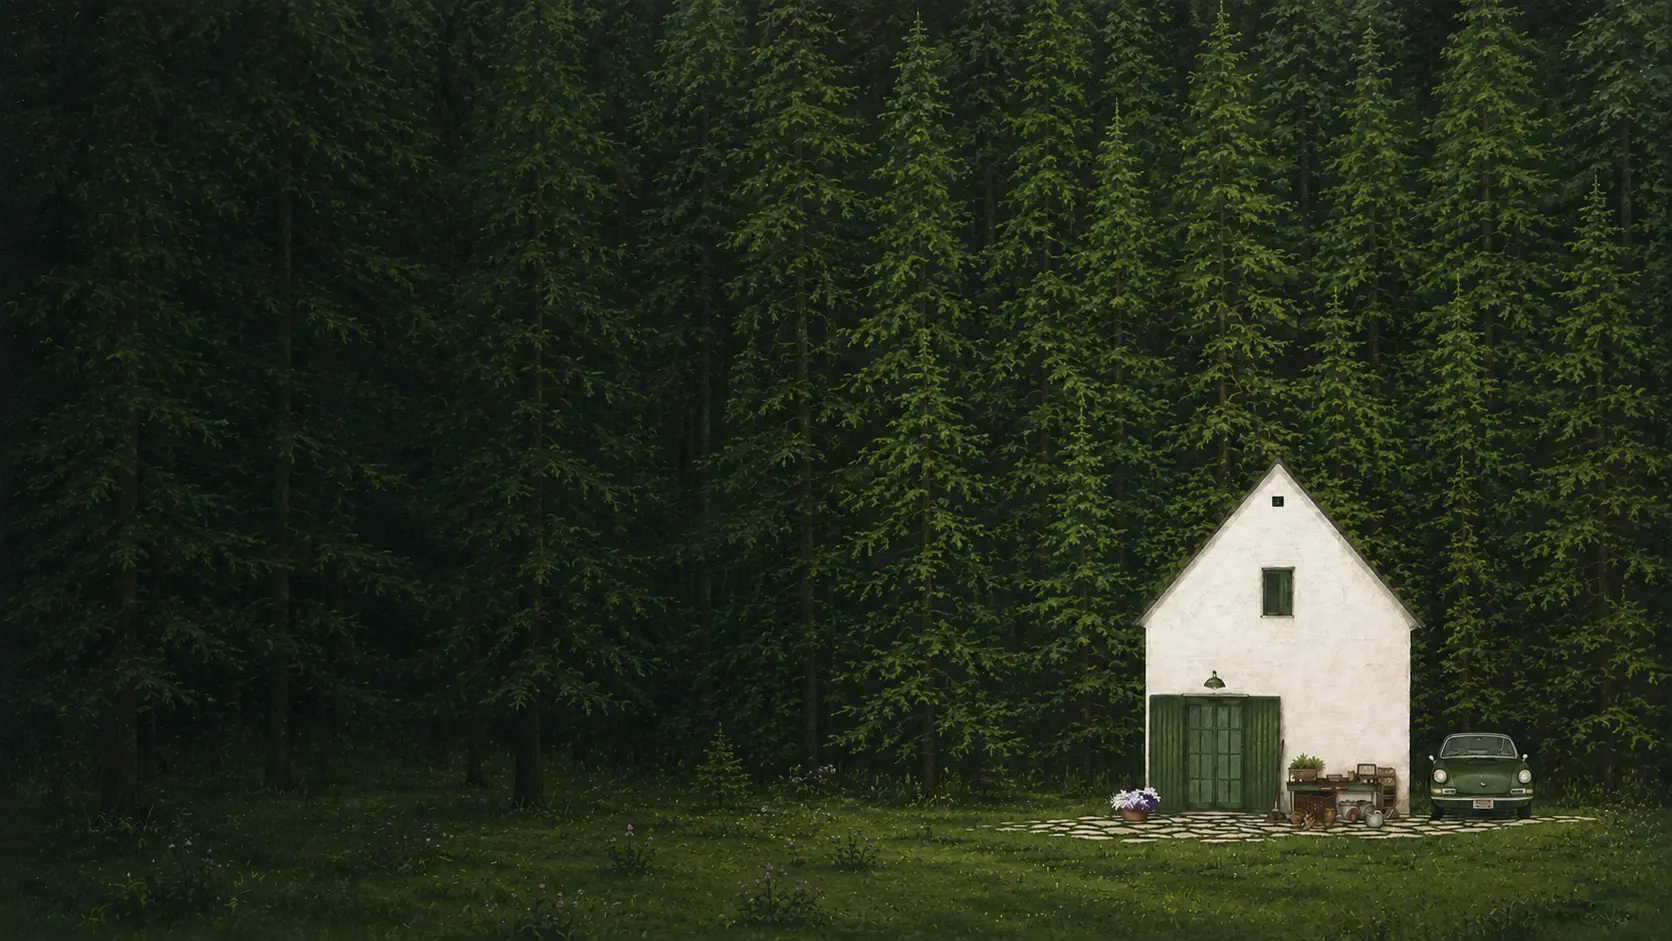
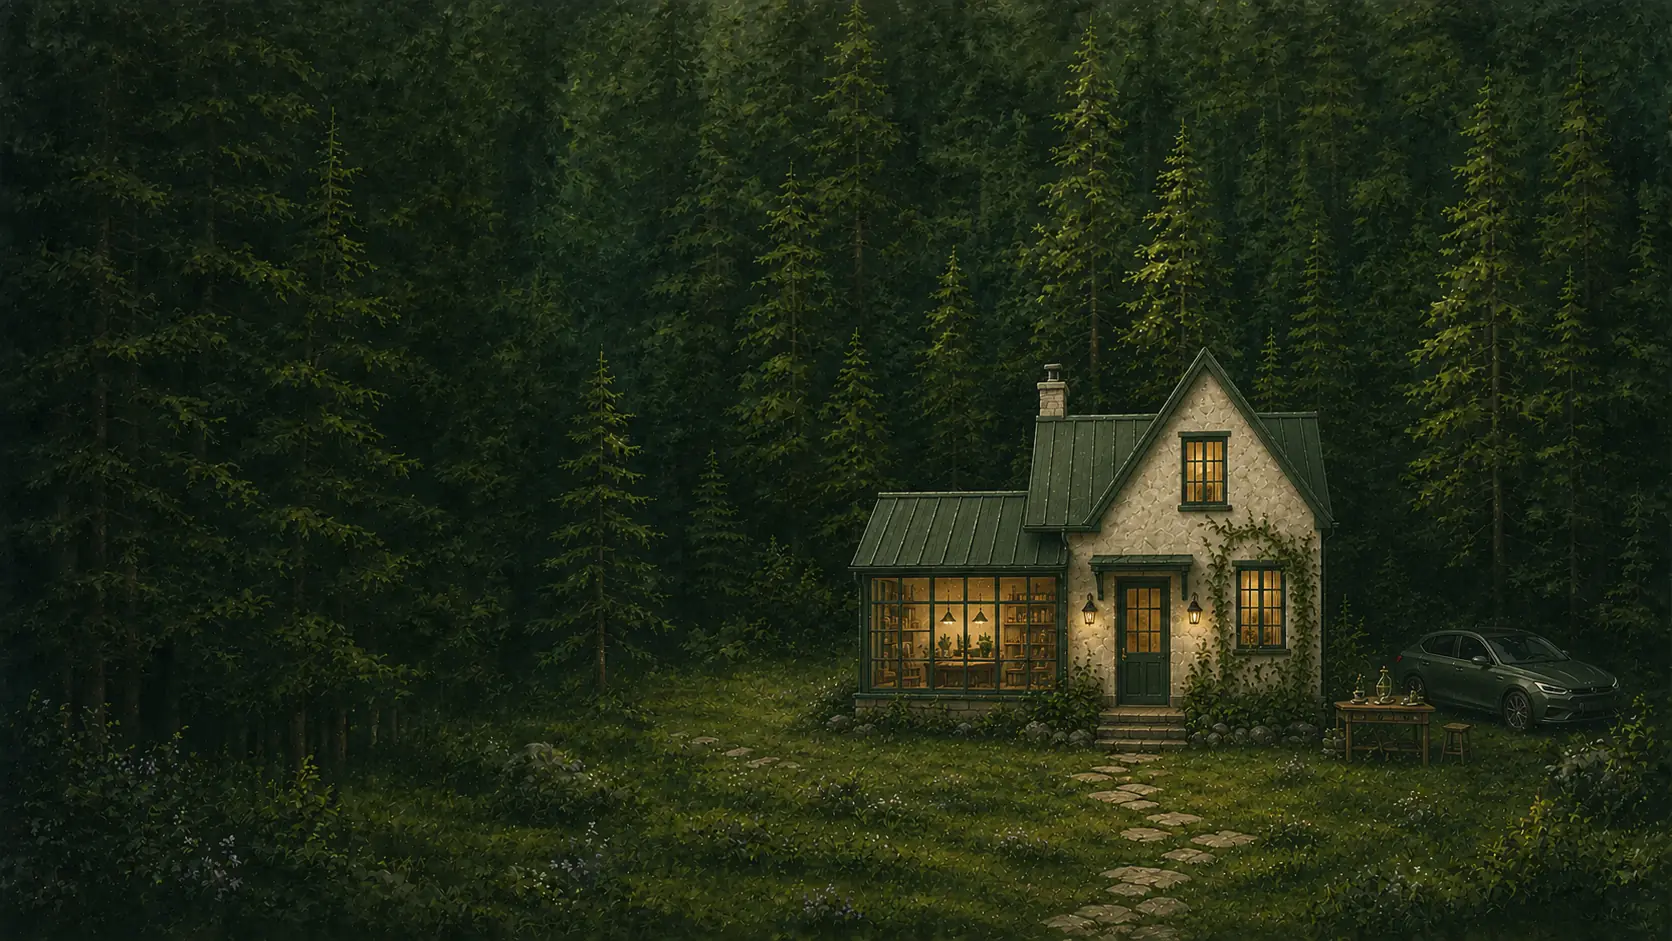
Update personalized preview and scroll interactions

diff --git a/preview-assets/storybook.css b/preview-assets/storybook.css
@@ -267,17 +267,17 @@ body.storybook-home progress#progress {
 }
 
 .scene-hotspot--house {
-  top: 42%;
-  left: 66%;
-  width: 21%;
-  height: 47%;
+  top: 38%;
+  left: 54%;
+  width: 32%;
+  height: 43%;
 }
 
 .scene-hotspot--car {
-  top: 68%;
-  left: 84.5%;
-  width: 12%;
-  height: 20%;
+  top: 62%;
+  left: 84%;
+  width: 14%;
+  height: 18%;
 }
 
 .forest-hero__scroll {
@@ -316,6 +316,9 @@ body.storybook-home progress#progress {
 }
 
 .storybook-paper {
+  --paper-x: 0px;
+  --paper-y: 0px;
+  --story-progress: 0;
   position: relative;
   overflow: hidden;
   background: var(--storybook-paper);
@@ -335,6 +338,94 @@ body.storybook-home progress#progress {
   background-size: 17px 19px, 23px 29px;
 }
 
+.storybook-wafer {
+  position: absolute;
+  top: 14rem;
+  right: -11vw;
+  width: min(38vw, 560px);
+  aspect-ratio: 1;
+  border: 1px solid rgba(46, 86, 54, 0.11);
+  border-radius: 50%;
+  opacity: 0.62;
+  pointer-events: none;
+  transform: translate(var(--paper-x), var(--paper-y)) rotate(-9deg);
+  transition: transform 900ms cubic-bezier(0.2, 0.7, 0.2, 1);
+  background:
+    linear-gradient(90deg, transparent 49.7%, rgba(46, 86, 54, 0.08) 50%, transparent 50.3%),
+    linear-gradient(transparent 49.7%, rgba(46, 86, 54, 0.08) 50%, transparent 50.3%),
+    repeating-radial-gradient(circle, transparent 0 11%, rgba(46, 86, 54, 0.045) 11.2% 11.5%);
+}
+
+.storybook-wafer span {
+  position: absolute;
+  border: 1px solid rgba(46, 86, 54, 0.08);
+  border-radius: 50%;
+}
+
+.storybook-wafer span:nth-child(1) {
+  inset: 16%;
+}
+
+.storybook-wafer span:nth-child(2) {
+  inset: 31%;
+}
+
+.storybook-wafer span:nth-child(3) {
+  inset: 45%;
+  background: rgba(46, 86, 54, 0.055);
+}
+
+.storybook-progress {
+  position: fixed;
+  z-index: 800;
+  top: 50%;
+  right: 24px;
+  width: 10px;
+  height: 150px;
+  opacity: 0;
+  pointer-events: none;
+  transform: translateY(-50%) translateX(14px);
+  transition: opacity 300ms ease, transform 300ms ease;
+}
+
+body.storybook-scrolled .storybook-progress {
+  opacity: 0.72;
+  transform: translateY(-50%) translateX(0);
+}
+
+.storybook-progress::before,
+.storybook-progress__fill {
+  content: "";
+  position: absolute;
+  top: 0;
+  left: 4px;
+  width: 1px;
+  height: 100%;
+}
+
+.storybook-progress::before {
+  background: rgba(25, 63, 37, 0.2);
+}
+
+.storybook-progress__fill {
+  background: #315f3c;
+  transform: scaleY(var(--story-progress));
+  transform-origin: top;
+}
+
+.storybook-progress__dot {
+  position: absolute;
+  top: calc(var(--story-progress) * 100%);
+  left: 0;
+  width: 9px;
+  height: 9px;
+  border: 2px solid var(--storybook-paper);
+  border-radius: 50%;
+  background: #315f3c;
+  box-shadow: 0 0 0 1px rgba(25, 63, 37, 0.22);
+  transform: translateY(-50%);
+}
+
 .storybook-content {
   position: relative;
   z-index: 1;
@@ -348,6 +439,17 @@ body.storybook-home progress#progress {
   gap: clamp(3.25rem, 9vw, 7.8rem);
   padding: 7.3rem 0 6.5rem;
   border-bottom: 1px solid var(--storybook-rule);
+}
+
+.storybook-reveal {
+  opacity: 0;
+  transform: translateY(28px);
+  transition: opacity 700ms ease, transform 800ms cubic-bezier(0.2, 0.72, 0.2, 1);
+}
+
+.storybook-reveal.is-visible {
+  opacity: 1;
+  transform: translateY(0);
 }
 
 .storybook-section-heading h2,
@@ -425,6 +527,14 @@ body.storybook-home progress#progress {
   margin: 0;
   padding: 1.85rem 0;
   border-bottom: 1px solid var(--storybook-rule);
+  transition: transform 260ms ease, background 260ms ease, padding 260ms ease;
+}
+
+.storybook-publications ol.bibliography > li:hover {
+  padding-right: 0.8rem;
+  padding-left: 0.8rem;
+  background: linear-gradient(90deg, rgba(74, 105, 67, 0.07), transparent 72%);
+  transform: translateX(8px);
 }
 
 .storybook-publications ol.bibliography > li .row {
@@ -550,13 +660,13 @@ body.storybook-home footer a {
   }
 
   .scene-hotspot--house {
-    left: 58%;
-    width: 28%;
+    left: 50%;
+    width: 38%;
   }
 
   .scene-hotspot--car {
-    left: 84%;
-    width: 15%;
+    left: 83%;
+    width: 17%;
   }
 
   .storybook-about {
@@ -612,6 +722,10 @@ body.storybook-home footer a {
     display: none;
   }
 
+  .storybook-progress {
+    display: none;
+  }
+
   .forest-hero__scroll {
     bottom: 1.25rem;
     left: 20px;
@@ -638,8 +752,16 @@ body.storybook-home footer a {
 
 @media (prefers-reduced-motion: reduce) {
   .forest-hero__painting,
-  .forest-hero__scroll-line::after {
+  .forest-hero__scroll-line::after,
+  .storybook-wafer,
+  .storybook-reveal,
+  .storybook-publications ol.bibliography > li {
     animation: none !important;
     transition: none !important;
+  }
+
+  .storybook-reveal {
+    opacity: 1;
+    transform: none;
   }
 }

diff --git a/index.html b/index.html
@@ -23,8 +23,8 @@
         <ul class="navbar-nav">
           <li class="nav-item active"><a class="nav-link" href="#about">about</a></li>
           <li class="nav-item"><a class="nav-link" href="#publications">publications</a></li>
-          <li class="nav-item"><a class="nav-link" href="https://stoz.kr/projects/">projects</a></li>
-          <li class="nav-item"><a class="nav-link" href="https://stoz.kr/cv/">cv</a></li>
+          <li class="nav-item"><a class="nav-link" href="https://blog.stoz.kr/projects/">projects</a></li>
+          <li class="nav-item"><a class="nav-link" href="https://blog.stoz.kr/cv/">cv</a></li>
         </ul>
       </div>
     </nav>
@@ -42,12 +42,14 @@
           <p class="forest-hero__affiliation">Samsung AI Center <span>·</span> KAIST CI Lab</p>
         </div>
         <a class="scene-hotspot scene-hotspot--house" href="#about"><span>About</span></a>
-        <a class="scene-hotspot scene-hotspot--car" href="https://stoz.kr/projects/"><span>Projects</span></a>
+        <a class="scene-hotspot scene-hotspot--car" href="https://blog.stoz.kr/projects/"><span>Projects</span></a>
         <a class="forest-hero__scroll" href="#about"><span class="forest-hero__scroll-line"></span>Walk into the site</a>
       </section>
 
       <section class="storybook-paper" id="about">
         <div class="storybook-paper__grain"></div>
+        <div class="storybook-wafer" aria-hidden="true"><span></span><span></span><span></span></div>
+        <div class="storybook-progress" aria-hidden="true"><span class="storybook-progress__fill"></span><span class="storybook-progress__dot"></span></div>
         <div class="storybook-content">
           <div class="storybook-about">
             <div class="storybook-section-heading">
@@ -58,13 +60,13 @@
               <div class="storybook-about__lead">
                 <p>I am Sung-Un Park, a staff engineer at Samsung AI Center and a Ph.D. student in Electrical Engineering at KAIST. My work focuses on building reliable, deployable AI systems in computer vision and on-device ML.</p>
               </div>
-              <nav class="storybook-text-links"><a href="https://stoz.kr/cv/">Curriculum Vitae</a><a href="#">Google Scholar</a><a href="#">LinkedIn</a></nav>
+              <nav class="storybook-text-links"><a href="https://blog.stoz.kr/cv/">Curriculum Vitae</a><a href="#">Google Scholar</a><a href="#">LinkedIn</a></nav>
             </div>
           </div>
           <section class="storybook-selected" id="publications">
             <div class="storybook-selected__heading">
               <div><p class="storybook-eyebrow storybook-eyebrow--dark">Selected work</p><h2>Publications</h2></div>
-              <a class="storybook-all-work" href="https://stoz.kr/publications/">View all publications →</a>
+              <a class="storybook-all-work" href="https://blog.stoz.kr/publications/">View all publications →</a>
             </div>
             <div class="storybook-publications publications">
               <ol class="bibliography">

diff --git a/preview-assets/storybook.js b/preview-assets/storybook.js
@@ -1,5 +1,6 @@
 (() => {
   const hero = document.querySelector(".forest-hero");
+  const paper = document.querySelector(".storybook-paper");
   const body = document.body;
   if (!hero || !body) return;
 
@@ -9,6 +10,11 @@
   const updateHeader = () => {
     const threshold = Math.max(80, hero.offsetHeight * 0.76);
     body.classList.toggle("storybook-scrolled", window.scrollY > threshold);
+    if (paper) {
+      const distance = Math.max(1, paper.scrollHeight - window.innerHeight);
+      const progress = Math.min(1, Math.max(0, (window.scrollY - paper.offsetTop) / distance));
+      paper.style.setProperty("--story-progress", progress.toFixed(4));
+    }
     scrollFrame = 0;
   };
 
@@ -20,6 +26,27 @@
     { passive: true }
   );
   updateHeader();
+
+  const revealItems = document.querySelectorAll(
+    ".storybook-section-heading, .storybook-about__copy, .storybook-selected__heading, .storybook-publications ol.bibliography > li, .storybook-social"
+  );
+  revealItems.forEach((item) => item.classList.add("storybook-reveal"));
+
+  if (reducedMotion || !("IntersectionObserver" in window)) {
+    revealItems.forEach((item) => item.classList.add("is-visible"));
+  } else {
+    const revealObserver = new IntersectionObserver(
+      (entries, observer) => {
+        entries.forEach((entry) => {
+          if (!entry.isIntersecting) return;
+          entry.target.classList.add("is-visible");
+          observer.unobserve(entry.target);
+        });
+      },
+      { threshold: 0.14, rootMargin: "0px 0px -8%" }
+    );
+    revealItems.forEach((item) => revealObserver.observe(item));
+  }
 
   if (reducedMotion) return;
 
@@ -55,4 +82,20 @@
     targetY = 0;
     if (!motionFrame) motionFrame = window.requestAnimationFrame(draw);
   });
+
+  if (paper) {
+    paper.addEventListener("pointermove", (event) => {
+      if (event.pointerType === "touch") return;
+      const bounds = paper.getBoundingClientRect();
+      const x = ((event.clientX - bounds.left) / bounds.width - 0.5) * -10;
+      const y = ((event.clientY - bounds.top) / Math.max(bounds.height, 1) - 0.5) * -7;
+      paper.style.setProperty("--paper-x", `${x}px`);
+      paper.style.setProperty("--paper-y", `${y}px`);
+    });
+
+    paper.addEventListener("pointerleave", () => {
+      paper.style.setProperty("--paper-x", "0px");
+      paper.style.setProperty("--paper-y", "0px");
+    });
+  }
 })();
